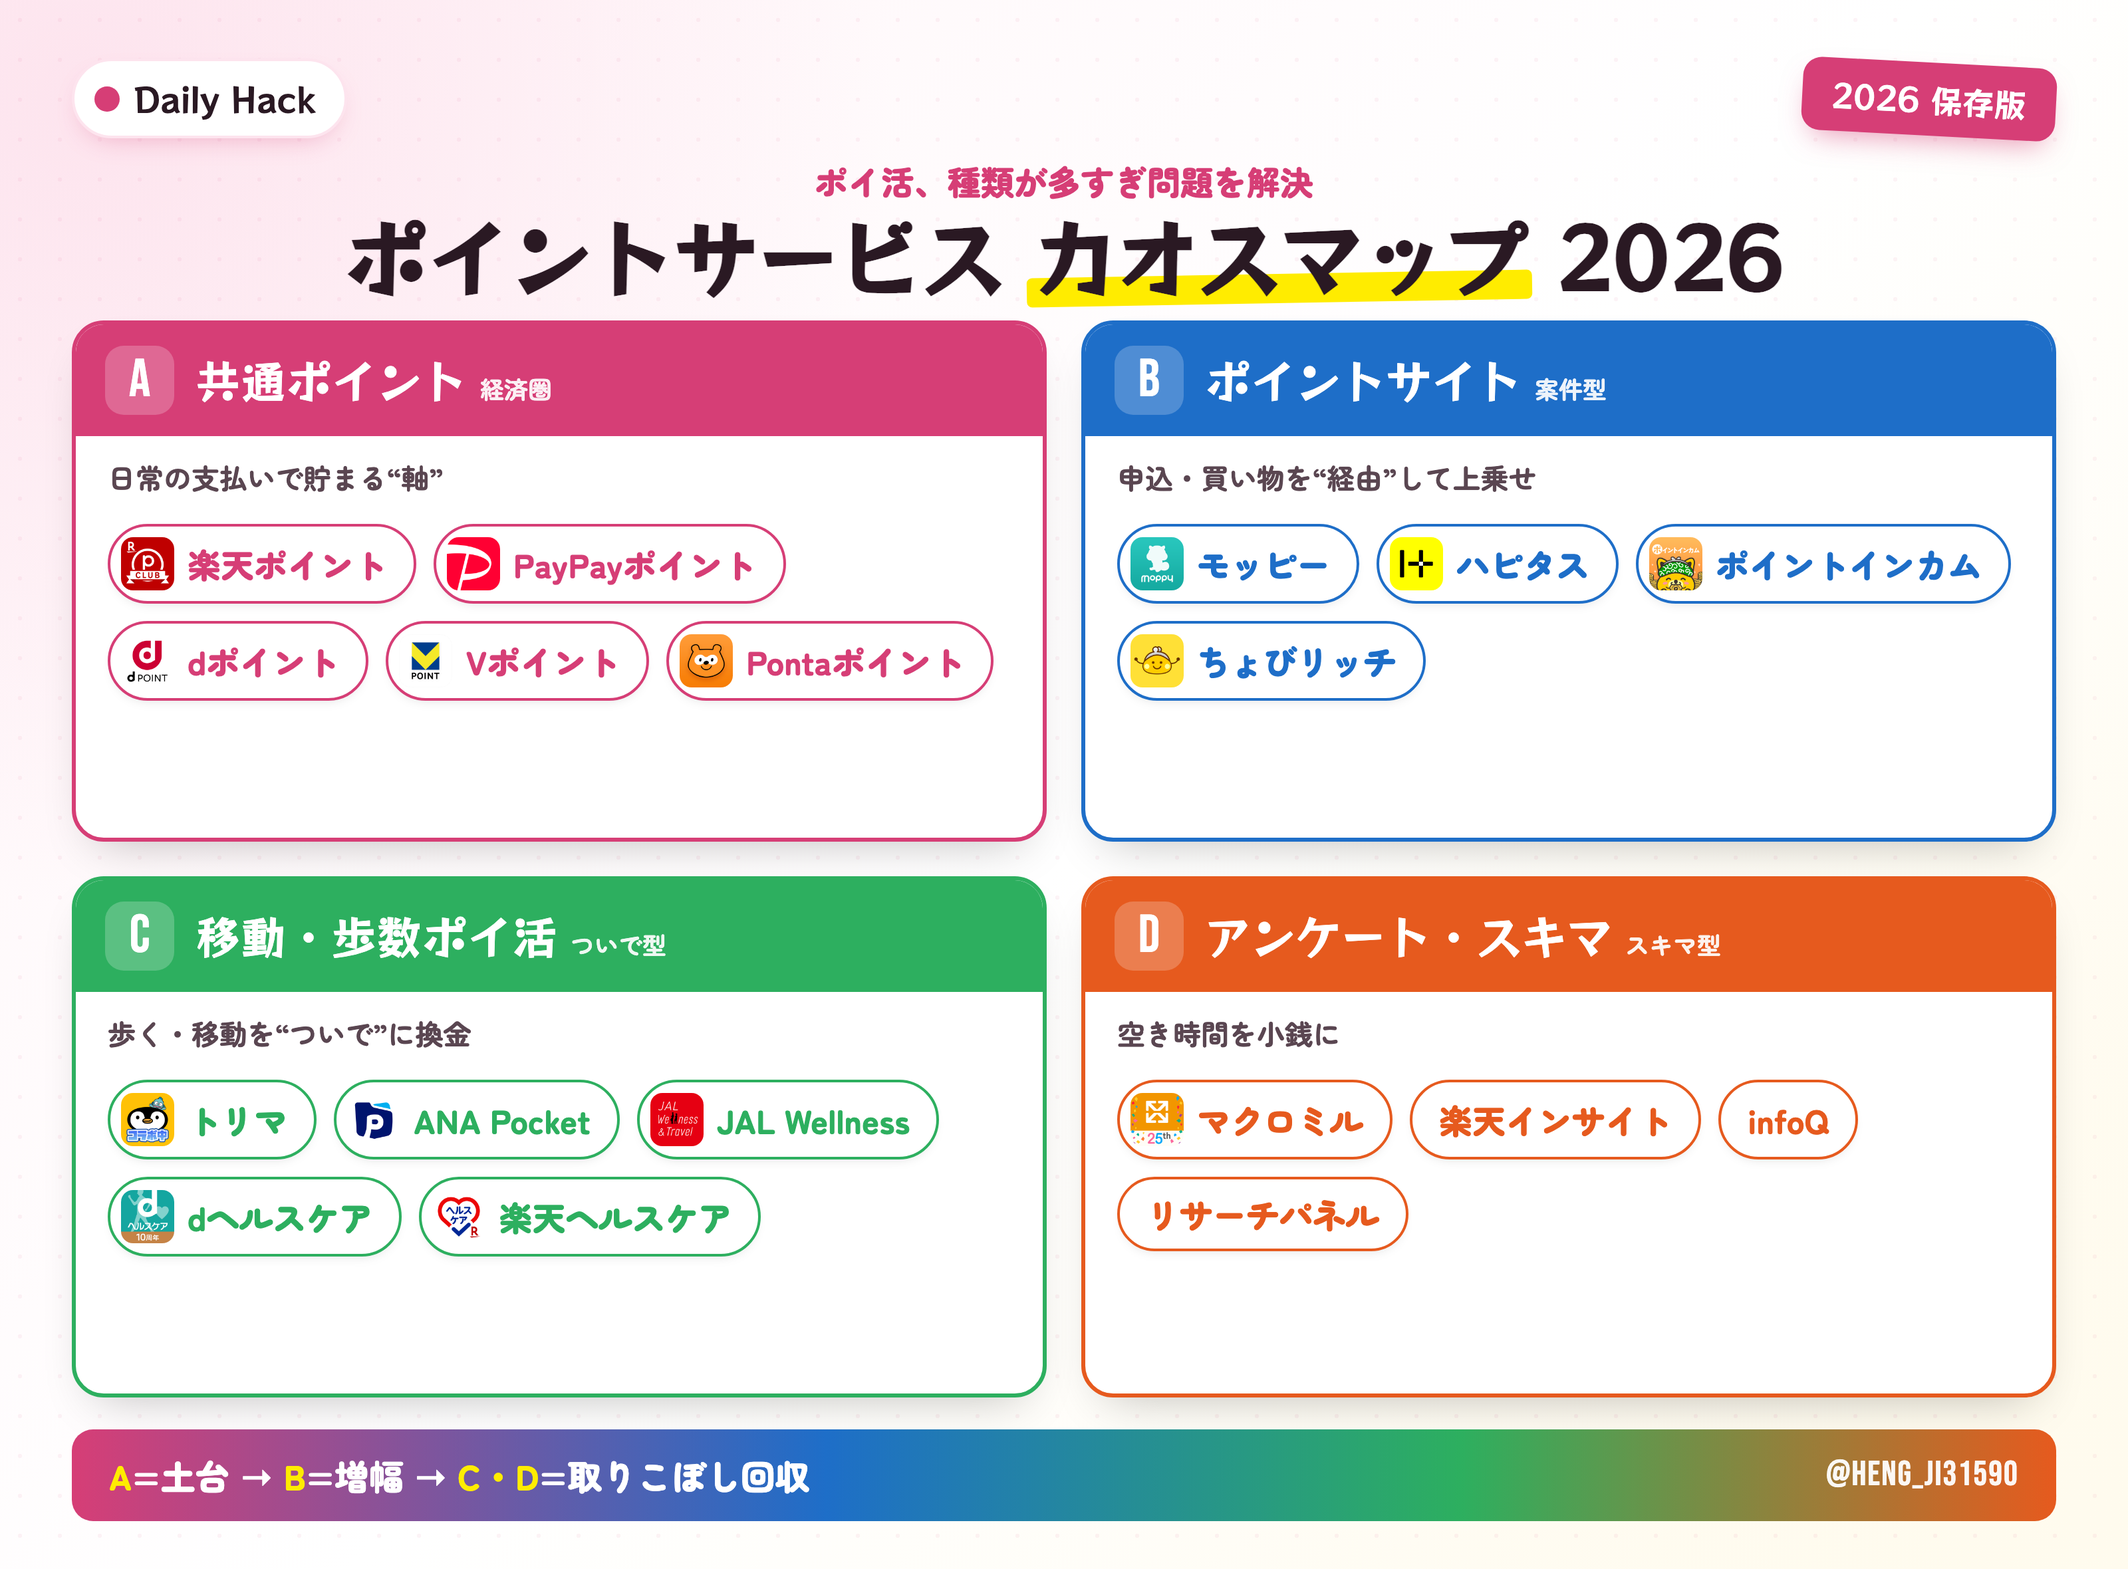
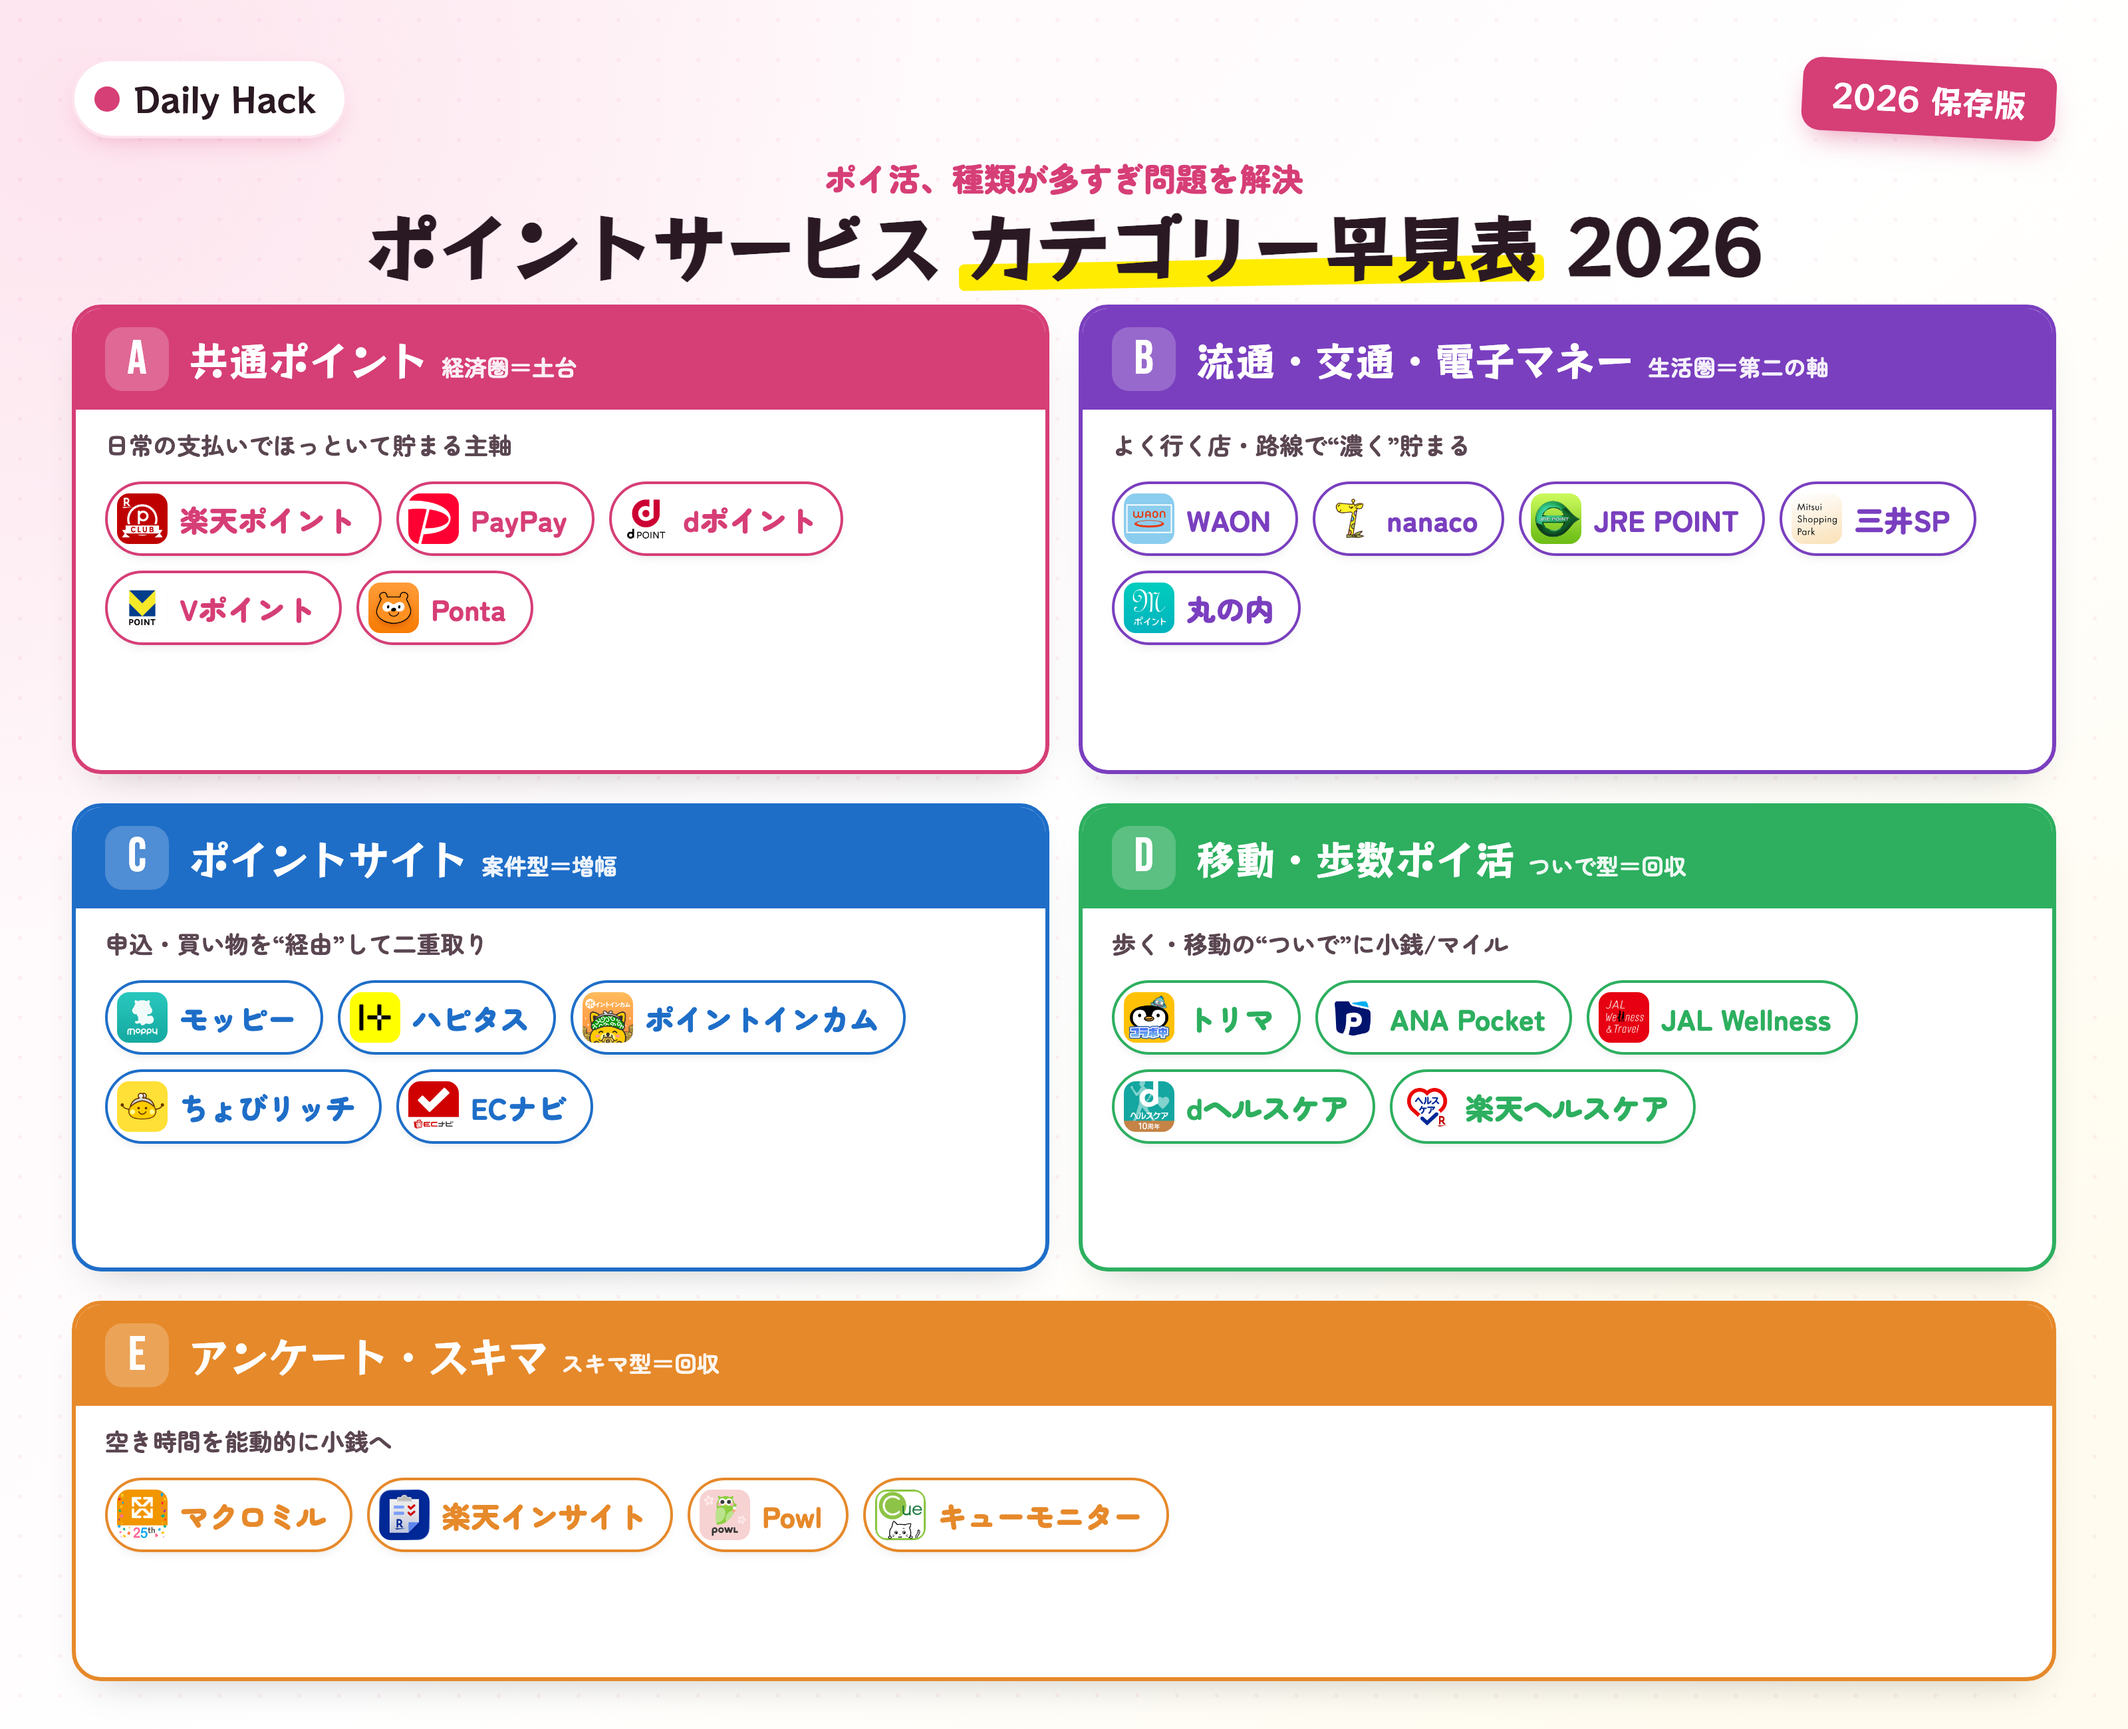
fix(C056): カオスマップ/早見表を5分類に再設計（FBバッチ対応）
- 4象限マップ: 流通・交通系(JRE/WAON/三井SP/nanaco/丸の内)もロゴでプロット、
  キャラを中央に配置、下部補足文を削除、タイトルとマップの被りを解消
- カテゴリー早見表: 4→5分類(B 流通・交通・電子マネー系を正式カテゴリ化)、
  名称をカオスマップ→カテゴリー早見表に、全チップに公式ロゴ(楽天インサイト/Powl/
  キューモニター等も追加取得)
- 本文: 5分類に整合、セクション記号A〜D、読み解き方/altを更新

diff --git a/src/content/posts/point-service-complete-guide-2026.md b/src/content/posts/point-service-complete-guide-2026.md
@@ -35,13 +35,13 @@ references: ["https://kakakumag.com/money/?id=20897", "https://www.warau.jp/", "
 - **左下＝移動・歩数（ついでに小銭）**：歩く・移動の“ついで”。手間は少ないがリターンは小。
 - **右下＝アンケート（スキマで小銭）**：空き時間に能動的に。コツコツ型。
 
-### カテゴリ早見（4分類ボックス）
+### カテゴリー早見表（5分類）
 
-役割で整理するとこの4カテゴリ。「全部やる」必要はなく、**カテゴリごとに1〜2個**選べばいい。
+役割で整理するとこの5カテゴリ。「全部やる」必要はなく、**カテゴリごとに1〜2個**選べばいい。
 
-![ポイントサービス カオスマップ 2026 — A共通ポイント/Bポイントサイト/C移動歩数/Dアンケートの4カテゴリにサービスのロゴを分類](/images/point-service-complete-guide-2026/chaosmap.png)
+![ポイントサービス カテゴリー早見表 2026 — A共通ポイント/B流通・交通・電子マネー/Cポイントサイト/D移動・歩数/Eアンケートの5カテゴリにサービスのロゴを分類](/images/point-service-complete-guide-2026/chaosmap.png)
 
-> 🎯 **読み解き方**：**Aが土台、Bが増幅装置、CとDが取りこぼし回収**。さらに、Aの共通ポイントだけでは取りこぼす「生活圏のお得」を拾うのが、後で説明する**第二の軸（流通・交通・電子マネー系）**。
+> 🎯 **読み解き方**：**A 共通ポイント＝土台、B 流通・交通系＝生活圏の第二の軸、C ポイントサイト＝増幅、D 移動・E アンケート＝取りこぼし回収**。この5分類で「自分はどこを押さえるか」を決める。
 
 
 <!-- a8-banners auto-inserted by banner-fill (slot1-after-1st-h2) -->
@@ -100,7 +100,7 @@ references: ["https://kakakumag.com/money/?id=20897", "https://www.warau.jp/", "
 
 → 関連: [PayPay大改悪まとめ 2026年6月](/posts/paypay-2026-june-revision-guide/) ／ [タッチでVisa割 最大30%還元 攻略](/posts/visa-touch-30-cashback-2026-jun/) ／ [年会費無料×高還元クレカ比較 2026](/posts/credit-card-no-annual-fee-comparison-2026/)
 
-## 🏬 第二の軸：流通・交通・電子マネー系 — “生活圏”で濃く貯める
+## 🅱 流通・交通・電子マネー系（生活圏）— 第二の軸
 
 共通ポイントが「全国どこでも薄く広く」なら、こっちは**「その生活圏の人にだけ濃く刺さる」第二の軸**。イオンが近い／ららぽーとに毎週行く／JRで通勤する人は、共通ポイントより高い還元（最大5%級）が日常で取れる。逆に生活圏が違えばほぼ無意味。だから**「主軸の共通ポイント1つ＋生活圏に合った第二の軸1つ」の二刀流**が正解。
 
